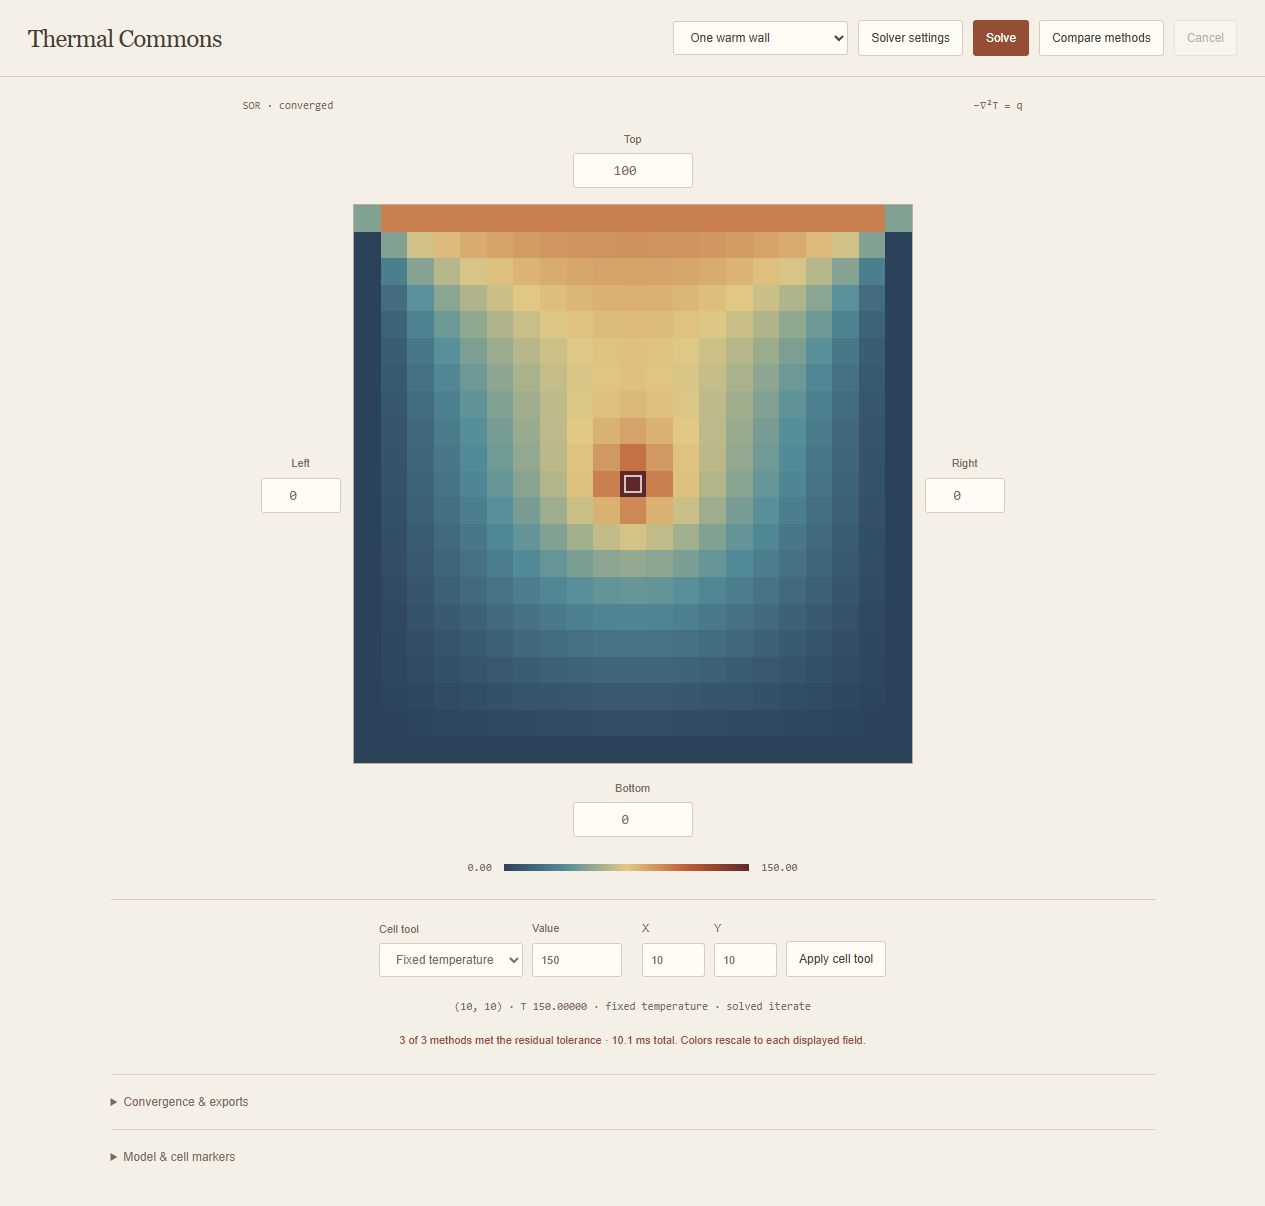
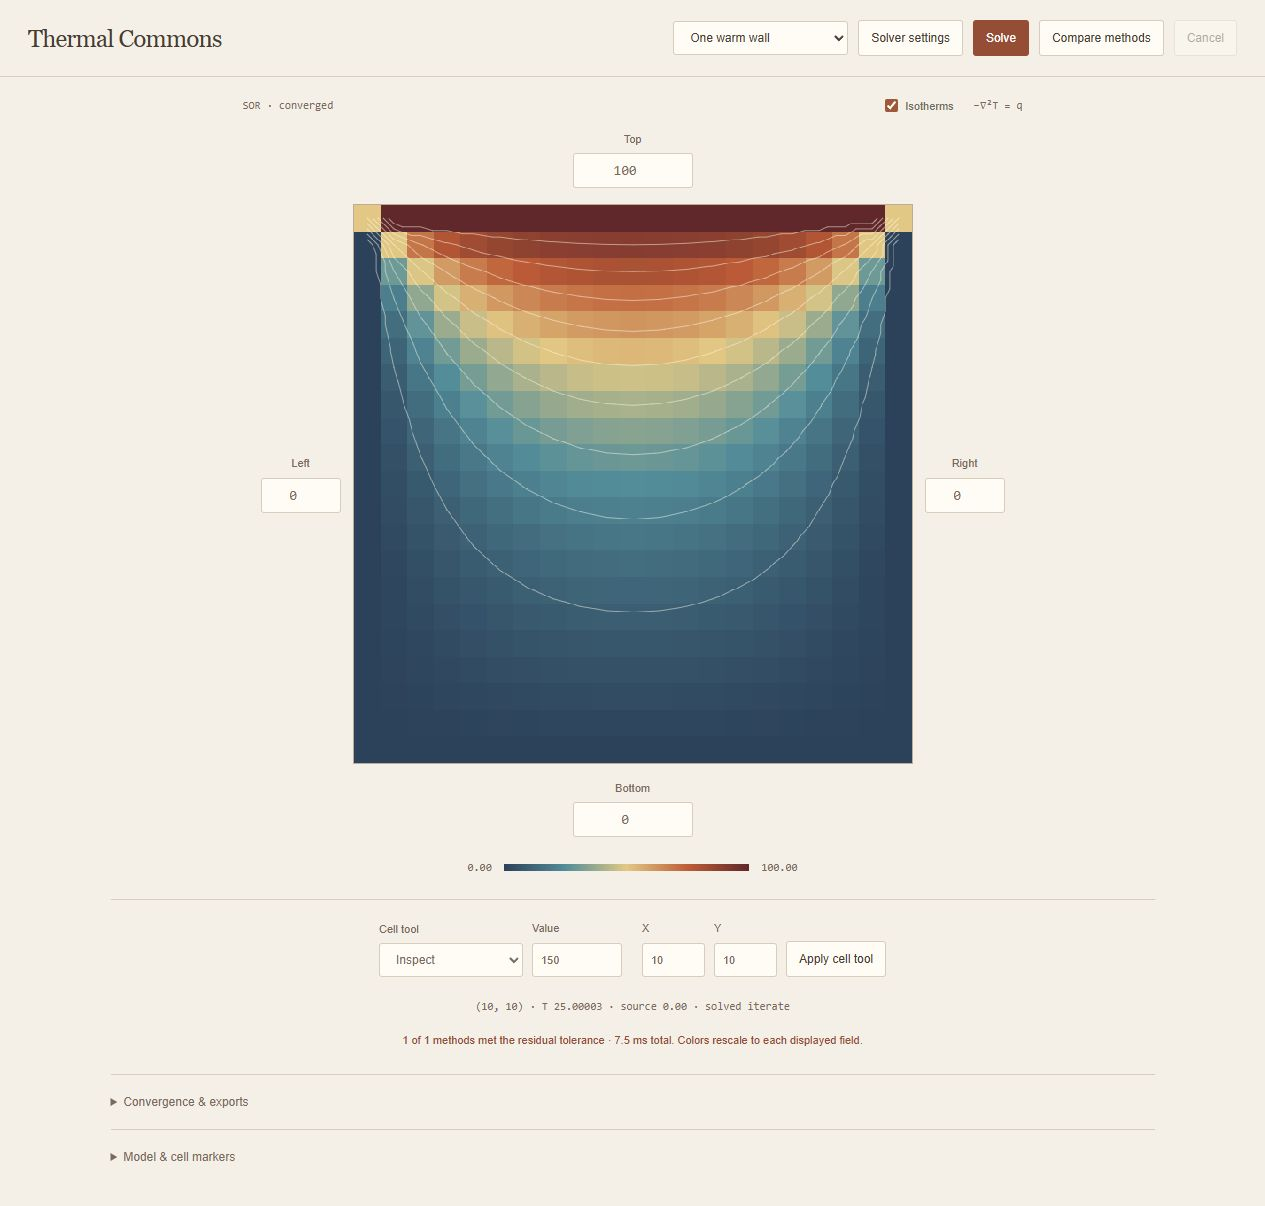
Overlay optional interpolated isotherms on solved heat fields

Changed region(s): [[0.2775, 0.1534, 0.7399, 0.5522], [0.3083, 0.8284, 0.6783, 0.8897], [0.7091, 0.0614, 0.7399, 0.092]]

diff --git a/app.js b/app.js
@@ -82,6 +82,50 @@ function color(value, min, max) {
     fraction = position - index;
   return `rgb(${stops[index].map((v, c) => Math.round(v + (stops[index + 1][c] - v) * fraction)).join(',')})`;
 }
+function drawIsotherms(ctx, values, n, min, max) {
+  if (max === min) return;
+  const cell = 630 / n;
+  ctx.strokeStyle = '#fff8e7';
+  ctx.globalAlpha = 0.5;
+  ctx.lineWidth = 1;
+  for (let level = 1; level < 10; level++) {
+    const threshold = min + ((max - min) * level) / 10;
+    ctx.beginPath();
+    for (let row = 0; row < n - 1; row++)
+      for (let col = 0; col < n - 1; col++) {
+        const points = [
+          [col, row],
+          [col + 1, row],
+          [col + 1, row + 1],
+          [col, row + 1],
+        ];
+        for (const ids of [
+          [0, 1, 2],
+          [0, 2, 3],
+        ]) {
+          const hits = [];
+          for (let edge = 0; edge < 3; edge++) {
+            const a = points[ids[edge]],
+              b = points[ids[(edge + 1) % 3]],
+              av = values[a[1] * n + a[0]],
+              bv = values[b[1] * n + b[0]];
+            if (av < threshold === bv < threshold) continue;
+            const t = (threshold - av) / (bv - av);
+            hits.push([
+              (a[0] + (b[0] - a[0]) * t + 0.5) * cell,
+              (a[1] + (b[1] - a[1]) * t + 0.5) * cell,
+            ]);
+          }
+          if (hits.length === 2) {
+            ctx.moveTo(...hits[0]);
+            ctx.lineTo(...hits[1]);
+          }
+        }
+      }
+    ctx.stroke();
+  }
+  ctx.globalAlpha = 1;
+}
 function draw() {
   const current = results[selected],
     grid = current || assemble(scene),
@@ -97,6 +141,7 @@ function draw() {
       ctx.fillStyle = color(values[i], min, max);
       ctx.fillRect(x * cell, y * cell, cell + 0.5, cell + 0.5);
     }
+  if (current && $('isotherms').checked) drawIsotherms(ctx, values, n, min, max);
   ctx.strokeStyle = '#fff9ed';
   ctx.lineWidth = 1.5;
   for (const pin of scene.pins)
@@ -389,3 +434,5 @@ $('import').addEventListener('change', async () => {
 sync();
 draw();
 run();
+
+$('isotherms').addEventListener('change', draw);

diff --git a/index.html b/index.html
@@ -18,7 +18,12 @@
       ><button id="cancel" disabled>Cancel</button>
     </header>
     <main>
-      <div class="field-head"><span id="view-label">Initial guess</span><span>−∇²T = q</span></div>
+      <div class="field-head">
+        <span id="view-label">Initial guess</span
+        ><label class="contour-control" title="Nine interpolated levels between the displayed minimum and maximum"
+          ><input id="isotherms" type="checkbox" checked /> Isotherms</label
+        ><span>−∇²T = q</span>
+      </div>
       <div class="field-cross">
         <label class="edge top">Top<input id="top" type="number" value="100" step="any" /></label
         ><label class="edge right"

diff --git a/style.css b/style.css
@@ -418,3 +418,27 @@ dialog small {
     transition: background 0.15s;
   }
 }
+.contour-control {
+  display: flex;
+  align-items: center;
+  gap: 7px;
+  margin-left: auto;
+  font: 11px Arial;
+  color: #6f705c;
+}
+.contour-control input {
+  width: auto;
+  accent-color: #a45b39;
+  margin: 0;
+}
+.field-head {
+  gap: 20px;
+}
+@media (max-width: 500px) {
+  .field-head {
+    gap: 10px;
+  }
+  .contour-control {
+    font-size: 10px;
+  }
+}

diff --git a/README.md b/README.md
@@ -18,6 +18,8 @@ Open http://127.0.0.1:8000. Solves run in a browser worker. The local server onl
 
 The temperature field is surrounded by its four boundary inputs, positioned on their corresponding edges. Painting and cell-coordinate tools sit below the color scale. **Solver settings** contains grid size, background source, method parameters, and experiment files; **Convergence & exports** expands the comparison chart, solver table, and downloads.
 
+Optional isotherms show nine evenly spaced levels between the displayed minimum and maximum, using piecewise-linear interpolation on a consistent triangulation between grid samples. They appear only for solved iterates and are visual guides rather than additional solver accuracy. Constant fields have no contour lines.
+
 ## Use the workbench
 
 - Choose a warm-wall, uniform-source, or fixed-hot-center experiment.
